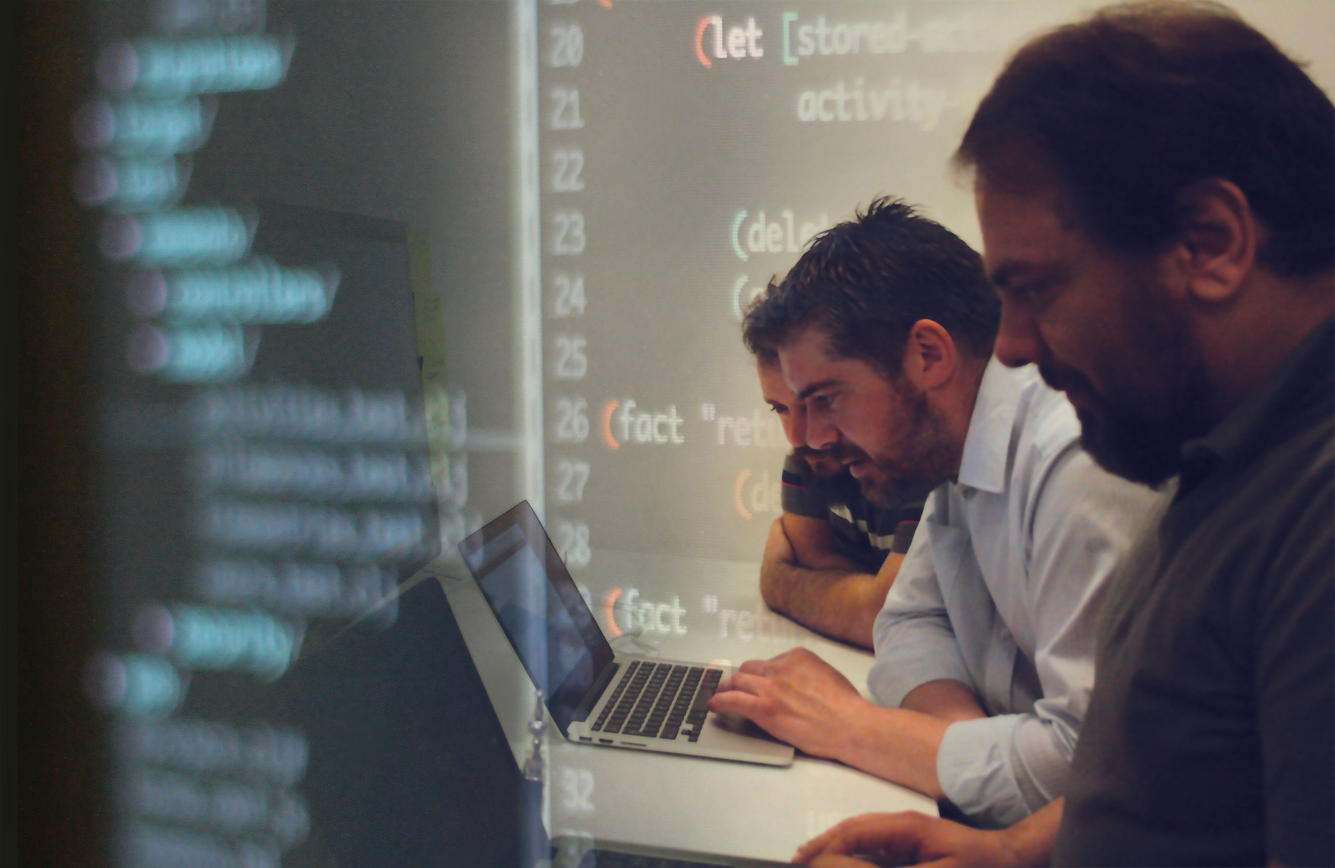
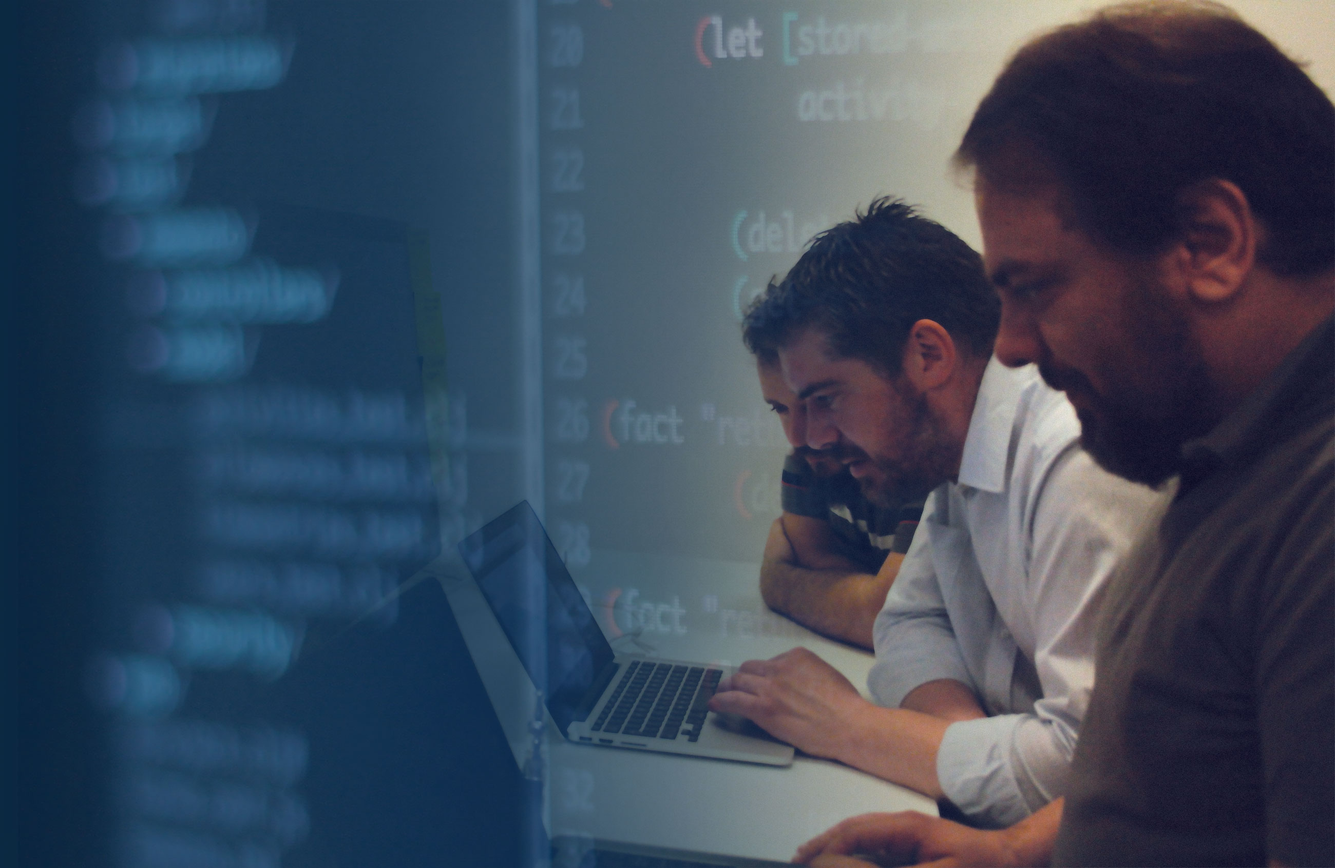
Modify feature panel text, centre

diff --git a/assets/css/custom.css b/assets/css/custom.css
@@ -37,15 +37,13 @@ body {
 	height: 550px;
 	background-size: cover;
 	width: auto;
-	z-index: -1;
+	z-index: 1;
+	position: relative;
 }
 
 @media (max-width: 768px) {
     .feature-panel, .jumbotron {
-	    height: 300px;
-	    background-position: center, top;
 	    padding-top: 0px;
-	    margin-bottom: 0px;
     }
     .feature-panel .jumbotron h1 {
 	line-height:40px;
@@ -62,7 +60,12 @@ body {
 .feature-panel .jumbotron {
     background: transparent;
     color: white;
-    text-align: left;
+    text-align: center;
+    margin: auto;
+    width: 80%;
+    height: 300px;
+    position: absolute;
+    top: 0; left: 0; bottom: 0; right: 0;
 }
 
 .feature-panel .jumbotron h3 {
@@ -70,14 +73,19 @@ body {
 }
 
 .feature-panel .jumbotron .btn-services {
-    background-color: black;
+    background-color: transparent;
+    border: 1px solid white;
+    border-radius: 6px;
     color: white;
+    font-size: 18px;
     margin-top: 10px;
+    padding-top: 10px;
+    padding-bottom: 10px;
 }
 
 .feature-panel .jumbotron .btn-services:hover {
     background-color: white;
-    color: black;
+    color: #687074;
 }
 
 .feature-panel .highlight {

diff --git a/index.html b/index.html
@@ -3,14 +3,11 @@ layout: default
 ---
 <!-- feature panel -->
 <div class="feature-panel">
-    <div class="container">
-        <div class="jumbotron col-md-6">
-            <h1>Pragmatic, <br />Skilled, <br />Transparent.</h1>
-	    <h3>At Codurance we constantly deliver value by crafting exceptional software.</h3>
-	    <h3>Our Software Craftsmen share their knowledge, inspiring and mentoring your team to help you reach the next level of productivity.</h3>
+        <div class="jumbotron">
+            <h1>Pragmatic, Skilled, Transparent.</h1>
+	    <h3>Our Software Craftsmen constantly deliver value to enterprises, medium-sized companies and startups by crafting exceptional software.</h3>
 	    <button class="btn btn-services animated" id="services-button">Discover our services</button>
         </div>
-    </div>
 </div>
 <!-- Activity panel -->
 <div class="section">
